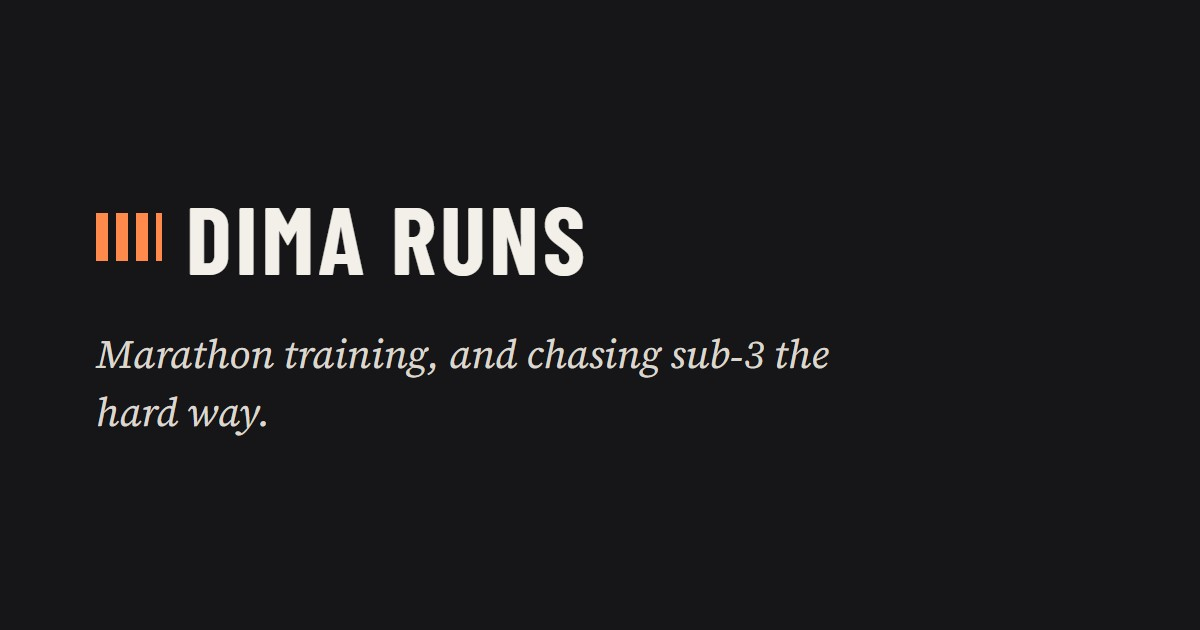
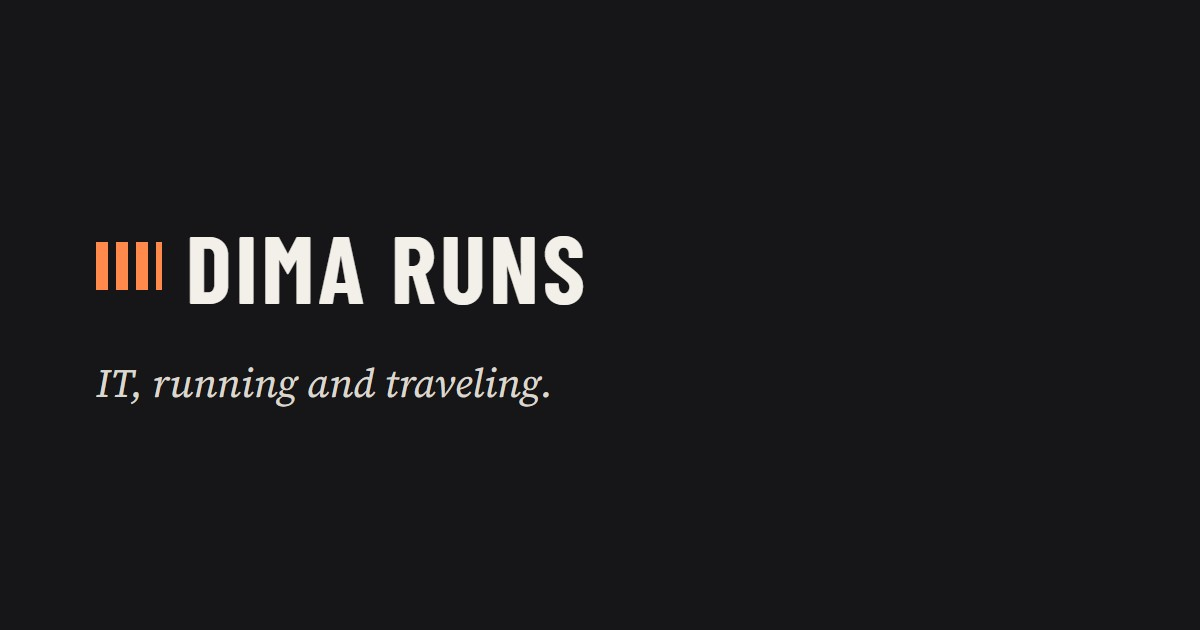
Describe the blog as IT, running and traveling

Changed region(s): [[0.0617, 0.5429, 0.7092, 0.6937], [0.0617, 0.3317, 0.4933, 0.4825]]

diff --git a/generator/src/main/kotlin/render/Templates.kt b/generator/src/main/kotlin/render/Templates.kt
@@ -35,7 +35,7 @@ class Templates(
             h1("visually-hidden") { +site.title }
             section("intro") {
                 p("lede") {
-                    +"I’m Dima, a software engineer in The Hague. I write about chasing a sub\u20113 marathon."
+                    +"I’m Dima, a software engineer in The Hague. I write about IT, running and traveling."
                 }
                 byline()
             }
@@ -138,7 +138,7 @@ class Templates(
                 }
                 p("lede") {
                     +"I’m Dima (${site.author}), a runner and software engineer in The Hague, The Netherlands. "
-                    +"I write about chasing a sub\u20113 marathon and what I learn along the way, mostly the hard way."
+                    +"I write about IT, running and traveling, and what I learn along the way, mostly the hard way."
                 }
                 ul("contact-list") {
                     contact("strava", "Strava", STRAVA)
@@ -303,7 +303,7 @@ class Templates(
                 }
                 p("endcard-bio") {
                     +"I’m Dima, a runner and software engineer in The Hague. "
-                    +"I write about marathon training and what I learn the hard way."
+                    +"I write about IT, running and traveling."
                 }
                 div("actions") {
                     a(STRAVA, classes = "btn btn-primary") {
